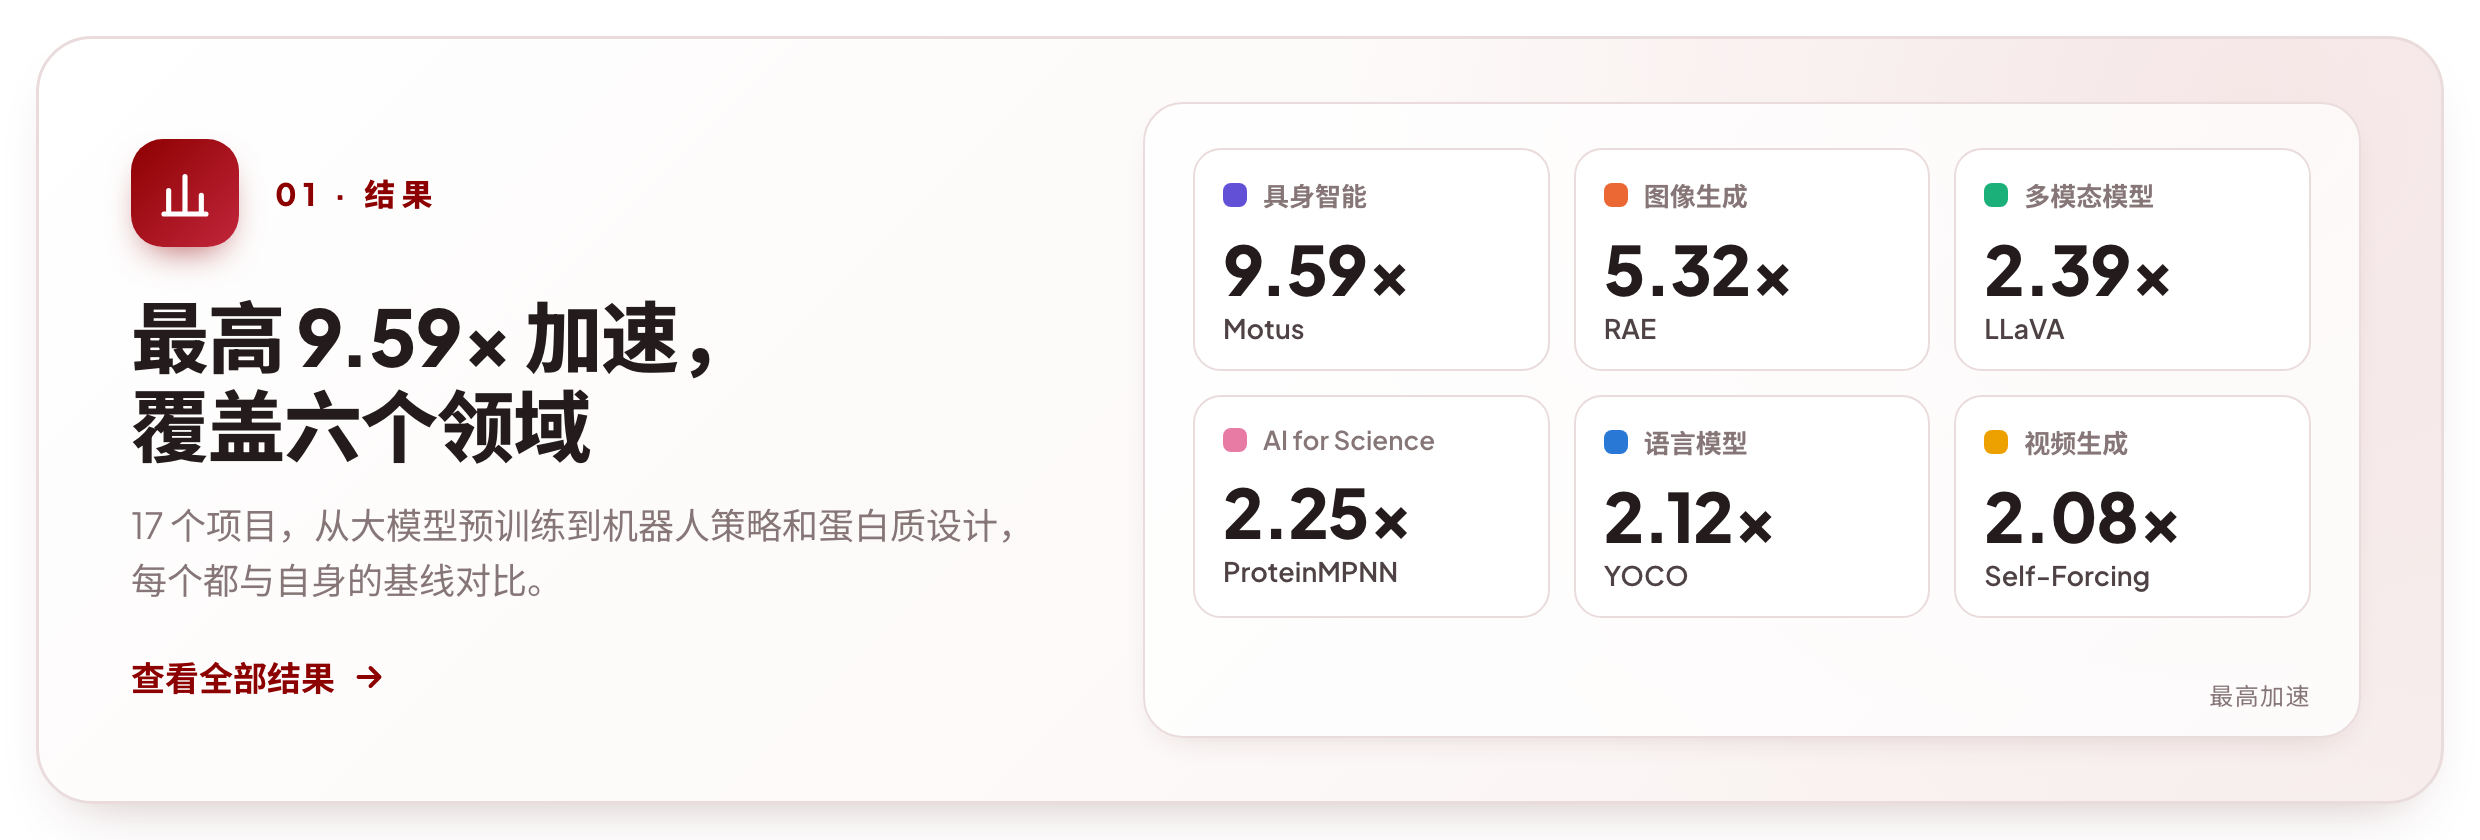
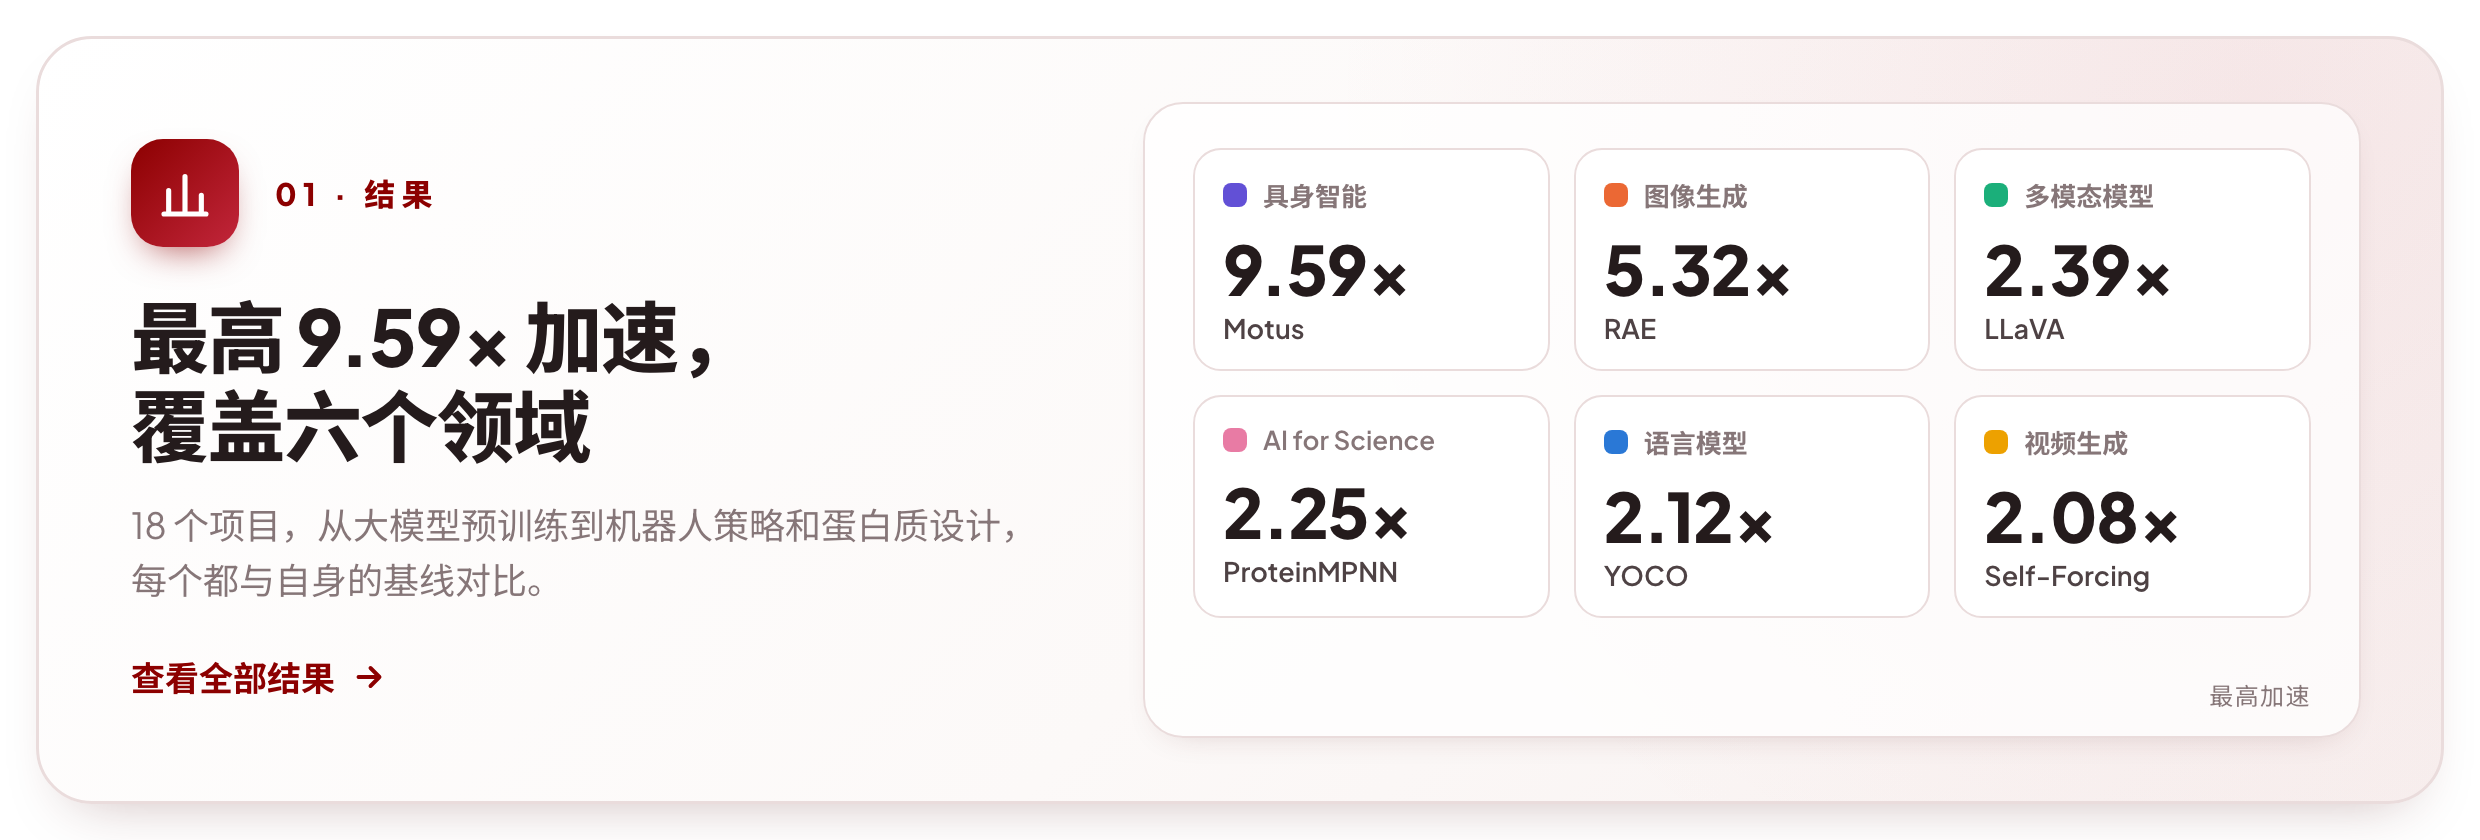
docs: add Faster-Protenix to AI for Science results (#9)
* docs: add Faster-Protenix to AI for Science results

* docs: polish the Protenix case for merge

Set the results card to 18 projects and re-render it, give the manual
review chip its own color instead of the Embodied AI purple, keep hardware
out of the README workload cell, note the comparison tolerance and what
changed in the report, and add COMMUNITY News entries.

---------

Changed region(s): [[0.0621, 0.5881, 0.4036, 0.65]]

diff --git a/docs/figures/make_results_overview.py b/docs/figures/make_results_overview.py
@@ -38,6 +38,7 @@ PROJECTS = [
     ("DMD2", "img", 1.72, "1.72×", False, "stat"),
     ("LLM2Vec", "llm", 1.6009, "1.60×", False, "stat"),
     ("JiT", "img", 1.56, "1.56×", False, "stat"),
+    ("Protenix", "sci", 1.5524, "1.55×", False, "manual"),
     ("FermiNet", "sci", 1.252, "1.25×", False, "bitwise"),
     ("NanoChat", "llm", 1.0744, "1.07×", False, "stat"),
 ]
@@ -69,7 +70,7 @@ TEXT = {
         "title": "Speedup over each project's own baseline",
         "sub": "{n} projects · {d} research domains · higher is faster",
         "cols": ("#", "Project", "Speedup", "Validation"),
-        "valid": {"bitwise": "Bitwise", "stat": "Statistical", "task": "Task metric", "explore": "Exploratory"},
+        "valid": {"bitwise": "Bitwise", "stat": "Statistical", "task": "Task metric", "explore": "Exploratory", "manual": "Manual review"},
         "est": "est.",
         "baseline": "1× baseline",
         "foot": "Hatched: extrapolated estimate · LLM2Vec: SimCSE stage (MNTP 1.29×) · details in docs/results",
@@ -83,7 +84,7 @@ TEXT = {
         "title": "加速比（均相对各项目自身的基线）",
         "sub": "{n} 个项目 · {d} 个研究领域 · 越长越快",
         "cols": ("#", "项目", "加速比", "验证方式"),
-        "valid": {"bitwise": "逐位一致", "stat": "统计等价", "task": "任务指标", "explore": "探索性"},
+        "valid": {"bitwise": "逐位一致", "stat": "统计等价", "task": "任务指标", "explore": "探索性", "manual": "人工复核"},
         "est": "估计",
         "baseline": "1× 基线",
         "foot": "斜纹：外推估计值 · LLM2Vec：SimCSE 阶段（MNTP 为 1.29×） · 详见 docs/results",
@@ -174,7 +175,8 @@ def leaderboard(lang):
     a(f'<line x1="{sx(1):.1f}" y1="{TOP - 6}" x2="{sx(1):.1f}" y2="{bottom}" stroke="{ACCENT}" stroke-width="1" stroke-dasharray="3 3"/>')
     a(f'<text x="{sx(1) + 5:.1f}" y="{TOP - 14}" class="tick" fill="{ACCENT}" style="fill:{ACCENT}">{t["baseline"]}</text>')
     chip_style = {"bitwise": ("#FBEAEA", "#E7C2C2", ACCENT), "stat": ("#F3F0F0", "#E4DCDC", INK2),
-                  "task": ("#EEF4FA", "#D3E2F0", "#2F5F8A"), "explore": ("#FFFFFF", "#D9CFCF", MUTED)}
+                  "task": ("#EEF4FA", "#D3E2F0", "#2F5F8A"), "explore": ("#FFFFFF", "#D9CFCF", MUTED),
+                  "manual": ("#F8F1EA", "#E6D5C3", "#7A5634")}
     for i, (name, d, v, label, est, val) in enumerate(PROJECTS):
         cy = TOP + i * ROW_H + ROW_H / 2
         color = DOMAINS[d][0]

diff --git a/docs/assets/readme/render.py b/docs/assets/readme/render.py
@@ -54,7 +54,7 @@ T = {
                     ("quickstart", "rocket", "Quick start", "light")],
         "cards": [
             ("results", "chart", "01 · RESULTS", "Up to 9.59× faster,<br>across six domains",
-             "17 projects, from LLM pretraining to robot policies and protein design, each measured against its own baseline.",
+             "18 projects, from LLM pretraining to robot policies and protein design, each measured against its own baseline.",
              "See all results"),
             ("prompt", "terminal", "02 · ONE PROMPT", "Paste one prompt,<br>get a verified speedup",
              "Open Codex or Claude Code on a GPU host. The agent finds the code, asks only what is yours to decide, and does the rest.",
@@ -128,7 +128,7 @@ T = {
                     ("quickstart", "rocket", "快速开始", "light")],
         "cards": [
             ("results", "chart", "01 · 结果", "最高 9.59× 加速，<br>覆盖六个领域",
-             "17 个项目，从大模型预训练到机器人策略和蛋白质设计，<br>每个都与自身的基线对比。",
+             "18 个项目，从大模型预训练到机器人策略和蛋白质设计，<br>每个都与自身的基线对比。",
              "查看全部结果"),
             ("prompt", "terminal", "02 · 一段提示词", "粘贴一段话，<br>拿到验证过的加速",
              "在 GPU 主机上打开 Codex 或 Claude Code。agent 自己找到代码，只问需要你决定的事，其余全部自己完成。",

diff --git a/README.md b/README.md
@@ -29,6 +29,7 @@
 
 ## News
 
+- <img src="https://img.shields.io/badge/COMMUNITY-1BAF7A?style=flat-square" alt="COMMUNITY" height="18"> **2026-11-07** · **[Faster-Protenix](https://github.com/micky-li-hd/Faster-Protenix)** by [@micky-li-hd](https://github.com/micky-li-hd): **1.55×** on Protenix 2.0.0 training over a fixed 128-update workload, validated by manual review.
 - <img src="https://img.shields.io/badge/COMMUNITY-1BAF7A?style=flat-square" alt="COMMUNITY" height="18"> **2026-11-06** · **[Faster-FermiNet](https://github.com/sen-ye/faster-ferminet)** by [@sen-ye](https://github.com/sen-ye): **1.25×** on FermiNet all-electron training for Fe, Kr, Cd and Xe.
 - <img src="https://img.shields.io/badge/FEATURE-2A78D6?style=flat-square" alt="FEATURE" height="18"> **2026-11-05** · Lite check: the statistical gate now runs on one seed within 3σ, and the agent's `check` times the candidate once against the frozen baseline, leaving baseline → candidate → baseline timing to the final check. Each check takes less time, so more of a run goes to optimizing ([check modes](docs/judge.md#check-modes)).
 - <img src="https://img.shields.io/badge/COMMUNITY-1BAF7A?style=flat-square" alt="COMMUNITY" height="18"> **2026-11-05** · **[OpenWAM](https://github.com/OpenWAM-Official/OpenWAM)** merged RBA's training speedups upstream ([OpenWAM#58](https://github.com/OpenWAM-Official/OpenWAM/pull/58), by [@GONGSHUKAI](https://github.com/GONGSHUKAI)): **2.54–2.77×** on OpenWAM-α fine-tuning across seven SFT benchmarks.
@@ -48,7 +49,7 @@
 
 ## Highlights
 
-<a href="#results"><img src="docs/assets/readme/card-results-en.png" alt="Up to 9.59× faster across six research domains: 17 projects, each measured against its own baseline." width="100%"></a>
+<a href="#results"><img src="docs/assets/readme/card-results-en.png" alt="Up to 9.59× faster across six research domains: 18 projects, each measured against its own baseline." width="100%"></a>
 
 <a href="#quick-start"><img src="docs/assets/readme/card-prompt-en.png" alt="Paste one prompt into Codex or Claude Code; the agent finds the code, asks only what is yours to decide, and does the rest." width="100%"></a>
 
@@ -58,7 +59,7 @@
 
 ## Results
 
-<a href="https://ai4ai-for-anything.github.io/#research"><img src="docs/figures/results-overview.svg" alt="All 17 projects ranked by speedup over their own baselines, from 9.59× (Motus) to 1.07× (NanoChat), with how each was validated" width="100%"></a>
+<a href="https://ai4ai-for-anything.github.io/#research"><img src="docs/figures/results-overview.svg" alt="All 18 projects ranked by speedup over their own baselines, from 9.59× (Motus) to 1.07× (NanoChat), with how each was validated" width="100%"></a>
 
 <img src="docs/figures/results-time.svg" alt="Baseline vs optimized time for six projects, such as Motus fine-tuning from 7.47 s to 0.78 s per iteration and the RoboTwin benchmark from 73.5 h to 16.8 h" width="100%">
 
@@ -130,11 +131,12 @@ Open a domain for the workloads, or the reports for experiment settings and vali
 </details>
 
 <details>
-<summary><strong>AI for Science</strong> · 2 projects — ProteinMPNN, FermiNet</summary>
+<summary><strong>AI for Science</strong> · 3 projects — ProteinMPNN, Protenix, FermiNet</summary>
 
 | Project | Workload | Speedup |
 |---|---|---:|
 | [Faster-ProteinMPNN](https://github.com/micky-li-hd/Faster-ProteinMPNN) by [@micky-li-hd](https://github.com/micky-li-hd) | ProteinMPNN v_48_020 training · full public dataset | **2.25×** |
+| [Faster-Protenix](https://github.com/micky-li-hd/Faster-Protenix) by [@micky-li-hd](https://github.com/micky-li-hd) | Protenix 2.0.0 training · 128 updates · crop 384 | **1.55×** |
 | [Faster-FermiNet](https://github.com/sen-ye/faster-ferminet) by [@sen-ye](https://github.com/sen-ye) | Fe / Kr / Cd / Xe all-electron training · KFAC, 1024 walkers per GPU | **1.25×** |
 
 [Measurement setup & validation →](docs/results/ai4s.md)
@@ -209,7 +211,7 @@ The quick start does this for you. By hand: read [AGENTS.md](AGENTS.md) and [doc
 
 | Path | Contents |
 |---|---|
-| [`docs/results/`](docs/results) | Results from 17 projects, grouped by domain, with measurement scope and validation records |
+| [`docs/results/`](docs/results) | Results from 18 projects, grouped by domain, with measurement scope and validation records |
 | [`docs/`](docs) | [Methodology](docs/methodology.md), [the judge](docs/judge.md), [goal mode](docs/goal-mode.md), [running a task](docs/run-a-task.md), [lessons from four tasks](docs/lessons.md) |
 | [`goal/`](goal) | Running one Codex or Claude Code `/goal` session on claw-orchestrator: the task scaffold, the sandbox, model access for both engines, run / status / steer / resume scripts and the final check, the watchdog, the brief for the formulating and supervising agent |
 | [`numerics/`](numerics) | The equivalence component every task judge copies and freezes: recording, bitwise and tiered comparison, paired-seed trajectories, the task adapter base class, a self-test |

diff --git a/README.zh-CN.md b/README.zh-CN.md
@@ -29,6 +29,7 @@
 
 ## 动态
 
+- <img src="https://img.shields.io/badge/社区-1BAF7A?style=flat-square" alt="社区" height="18"> **2026-11-07** · **[Faster-Protenix](https://github.com/micky-li-hd/Faster-Protenix)**，来自 [@micky-li-hd](https://github.com/micky-li-hd)：Protenix 2.0.0 训练在固定的 128 次更新上加速 **1.55×**，经人工复核验证。
 - <img src="https://img.shields.io/badge/社区-1BAF7A?style=flat-square" alt="社区" height="18"> **2026-11-06** · **[Faster-FermiNet](https://github.com/sen-ye/faster-ferminet)**，来自 [@sen-ye](https://github.com/sen-ye)：FermiNet 全电子训练（Fe / Kr / Cd / Xe）加速 **1.25×**。
 - <img src="https://img.shields.io/badge/功能-2A78D6?style=flat-square" alt="功能" height="18"> **2026-11-05** · 轻量化 check：统计检查改为单种子 3σ，agent 自己的 `check` 只计时一次候选版本、与固定的基线计时比较，“基线 → 候选版本 → 基线”计时留给最终评测。每次 check 更快，一次运行中更多时间用于优化（[check 模式](docs/judge.md#check-modes)）。
 - <img src="https://img.shields.io/badge/社区-1BAF7A?style=flat-square" alt="社区" height="18"> **2026-11-05** · **[OpenWAM](https://github.com/OpenWAM-Official/OpenWAM)** 已把 RBA 的训练加速合入上游（[OpenWAM#58](https://github.com/OpenWAM-Official/OpenWAM/pull/58)，来自 [@GONGSHUKAI](https://github.com/GONGSHUKAI)）：OpenWAM-α 微调在 7 个 SFT 基准上加速 **2.54–2.77×**。
@@ -48,7 +49,7 @@
 
 ## 亮点
 
-<a href="#已有结果"><img src="docs/assets/readme/card-results-zh.png" alt="最高 9.59× 加速，覆盖六个研究领域：17 个项目，每个都与自身的基线对比。" width="100%"></a>
+<a href="#已有结果"><img src="docs/assets/readme/card-results-zh.png" alt="最高 9.59× 加速，覆盖六个研究领域：18 个项目，每个都与自身的基线对比。" width="100%"></a>
 
 <a href="#快速开始"><img src="docs/assets/readme/card-prompt-zh.png" alt="在 Codex 或 Claude Code 里粘贴一段话；agent 自己找到代码，只问需要你决定的事，其余全部自己完成。" width="100%"></a>
 
@@ -58,7 +59,7 @@
 
 ## 已有结果
 
-<a href="https://ai4ai-for-anything.github.io/#research"><img src="docs/figures/results-overview.zh-CN.svg" alt="17 个项目按相对自身基线的加速比排名，从 9.59×（Motus）到 1.07×（NanoChat），附验证方式" width="100%"></a>
+<a href="https://ai4ai-for-anything.github.io/#research"><img src="docs/figures/results-overview.zh-CN.svg" alt="18 个项目按相对自身基线的加速比排名，从 9.59×（Motus）到 1.07×（NanoChat），附验证方式" width="100%"></a>
 
 <img src="docs/figures/results-time.zh-CN.svg" alt="6 个项目的基线与优化后耗时对比，例如 Motus 微调每次迭代从 7.47 s 降到 0.78 s，RoboTwin 完整评测从 73.5 h 降到 16.8 h" width="100%">
 
@@ -130,11 +131,12 @@
 </details>
 
 <details>
-<summary><strong>AI for Science</strong> · 2 个项目 — ProteinMPNN, FermiNet</summary>
+<summary><strong>AI for Science</strong> · 3 个项目 — ProteinMPNN, Protenix, FermiNet</summary>
 
 | 项目 | 工作负载 | 加速比 |
 |---|---|---:|
 | [Faster-ProteinMPNN](https://github.com/micky-li-hd/Faster-ProteinMPNN)（[@micky-li-hd](https://github.com/micky-li-hd) 贡献） | ProteinMPNN v_48_020 训练（完整公开数据集） | **2.25×** |
+| [Faster-Protenix](https://github.com/micky-li-hd/Faster-Protenix)（[@micky-li-hd](https://github.com/micky-li-hd) 贡献） | Protenix 2.0.0 训练 · 128 次更新 · crop 384 | **1.55×** |
 | [Faster-FermiNet](https://github.com/sen-ye/faster-ferminet)（[@sen-ye](https://github.com/sen-ye) 贡献） | Fe / Kr / Cd / Xe 全电子训练 · KFAC，每卡 1024 walkers | **1.25×** |
 
 [实验设置与验证记录（英文） →](docs/results/ai4s.md)
@@ -209,7 +211,7 @@ Codex 用 `codex --enable default_mode_request_user_input` 启动时会弹出提
 
 | 路径 | 内容 |
 |---|---|
-| [`docs/results/`](docs/results) | 17 个项目的分类报告、测量范围与验证记录（英文） |
+| [`docs/results/`](docs/results) | 18 个项目的分类报告、测量范围与验证记录（英文） |
 | [`docs/`](docs) | 英文文档：[方法](docs/methodology.md)、[评测](docs/judge.md)、[goal 模式](docs/goal-mode.md)、[任务运行指南](docs/run-a-task.md)、[四个任务的经验](docs/lessons.md) |
 | [`goal/`](goal) | 在 claw-orchestrator 上运行 Codex 或 Claude Code `/goal` 会话的工具：建任务目录的脚本、沙箱、两种引擎的模型访问配置、启动 / 查看状态 / 发送提醒 / 恢复运行的脚本和最终评测、监控脚本，以及任务准备和监督 agent 的说明 |
 | [`numerics/`](numerics) | 各任务评测复制并固定版本的数值等价性检查组件：数据记录、逐位和分级比对、配对随机种子的训练轨迹比对、任务适配器基类及自测 |

diff --git a/docs/results/ai4s.md b/docs/results/ai4s.md
@@ -2,7 +2,7 @@
 
 [← All results](README.md) · [ResearchBoost-Agent](../../README.md#results)
 
-2 projects · [ProteinMPNN](#faster-proteinmpnn) · [FermiNet](#faster-ferminet)
+3 projects · [ProteinMPNN](#faster-proteinmpnn) · [Protenix](#faster-protenix) · [FermiNet](#faster-ferminet)
 
 ## Faster-ProteinMPNN
 
@@ -22,6 +22,29 @@ Six of the recipe's 150 epochs (8,970 updates) per arm, run reference → candid
 This is a bounded exploratory comparison, not a frozen-judge four-gate PASS or a full-training convergence claim. The source tree contains the pinned upstream implementation with the training optimization applied in place, an unchanged reference arm, and reproduction scripts.
 
 [Code & project README ↗](https://github.com/micky-li-hd/Faster-ProteinMPNN) · [Detailed evidence ↗](https://github.com/micky-li-hd/Faster-ProteinMPNN/blob/main/six_epoch_evidence.json)
+
+## Faster-Protenix
+
+Contributed by [@micky-li-hd](https://github.com/micky-li-hd).
+
+**Protenix 2.0.0 training · 128 optimizer updates · crop 384 · diffusion batch 48**
+
+| Item | Result |
+|---|---|
+| Speedup | **1.55×** |
+| Hardware | 8 × NVIDIA H20 96 GB, single host |
+| Measurement scope | 1,503.99 → 968.83 s whole process; mean of two references vs candidate |
+| Validation | Manual review PASS: 216/216 training comparisons and 135/138 normal/EMA evaluation comparisons passed; the three accepted EMA deviations were smaller than the reference-repeat deviation |
+
+The fixed workload ran reference → candidate → reference with the same inputs, random-state fingerprints, precision, Adam configuration, effective batch, learning-rate schedule, checkpointing and evaluation. Whole-process timing includes startup, cold native compilation, 128 updates, checkpoint writing and evaluation. Mean max-rank step time over updates 16–127 improved from 10.24 to 6.07 s (**1.69×**).
+
+The candidate keeps selected Pairformer, MSA and diffusion activations instead of recomputing them, caches repeated conditioning and sampling projections, fuses attention softmax and the head-gate backward, uses native CUDA kernels for selected layer-norm and affine work, and parallelizes cold builds and model initialization. Keeping activations costs memory: the candidate peaked at 81.9 GiB allocated and 93.4 GiB reserved per rank.
+
+Comparisons used the frozen tolerance max(1e-4, 5% of the reference value). Manual review accepted the three deviations in `ema0.999_lddt/complex/plddt.rank1.avg` as run-to-run variance: the reference-repeat delta was 0.003168, larger than the 0.001859 and 0.001309 candidate deltas. All six final normal/EMA checkpoints were finite. The public repository includes the implementation snapshot, source and publication manifests, reviewed findings, fixed-scope record and clean-run closure record.
+
+The validation covers this fixed 128-update engineering workload; full-corpus convergence is outside its scope. The exact training fixture and generated checkpoints are not redistributed, and the source snapshot is hash-manifested because the upstream Git commit was not recorded.
+
+[Code & project README ↗](https://github.com/micky-li-hd/Faster-Protenix) · [Summary ↗](https://github.com/micky-li-hd/Faster-Protenix/blob/main/results/summary.json) · [Detailed evidence ↗](https://github.com/micky-li-hd/Faster-Protenix/blob/main/results/FINDINGS.json)
 
 ## Faster-FermiNet
 

diff --git a/docs/results/README.md b/docs/results/README.md
@@ -2,7 +2,7 @@
 
 [← ResearchBoost-Agent](../../README.md#results)
 
-**17 projects · 6 research domains**
+**18 projects · 6 research domains**
 
 Each report includes the workload, hardware, timing and validation results, with links to the project’s code and experiments.
 
@@ -13,8 +13,8 @@ Each report includes the workload, hardware, timing and validation results, with
 | Image Generation | RAE, DMD2, JiT | [Open report](image-generation.md) |
 | Video Generation | Self-Forcing, [MiniMax-H3](https://github.com/2018cx/Faster-MiniMax-H3) by [@2018cx](https://github.com/2018cx) | [Open report](video-generation.md) |
 | Embodied AI | RoboTwin, Motus, FastWAM, [OpenWAM](https://github.com/OpenWAM-Official/OpenWAM) by [@GONGSHUKAI](https://github.com/GONGSHUKAI) | [Open report](embodied-ai.md) |
-| AI for Science | [ProteinMPNN](https://github.com/micky-li-hd/Faster-ProteinMPNN) by [@micky-li-hd](https://github.com/micky-li-hd), [FermiNet](https://github.com/sen-ye/faster-ferminet) by [@sen-ye](https://github.com/sen-ye) | [Open report](ai4s.md) |
+| AI for Science | [ProteinMPNN](https://github.com/micky-li-hd/Faster-ProteinMPNN) by [@micky-li-hd](https://github.com/micky-li-hd), [Protenix](https://github.com/micky-li-hd/Faster-Protenix) by [@micky-li-hd](https://github.com/micky-li-hd), [FermiNet](https://github.com/sen-ye/faster-ferminet) by [@sen-ye](https://github.com/sen-ye) | [Open report](ai4s.md) |
 
 Speedups compare each workload with its own baseline. **est.** marks an extrapolated result.
 
-Updated **2026-11-06** from the linked project reports and [website results](https://ai4ai-for-anything.github.io/#research), including R3’s **2.08× on 8 × H100**, MiniMax-H3’s repaired **1.8570× on 8 × H20**, OpenWAM’s **2.54–2.77× on 4 × H200** (merged upstream), and FermiNet’s **1.25× on H20**. LLM2Vec reports independent MNTP and SimCSE stage measurements; its validation limitations are documented in the [LLM report](llm.md#faster-llm2vec).
+Updated **2026-11-07** from the linked project reports and [website results](https://ai4ai-for-anything.github.io/#research), including R3’s **2.08× on 8 × H100**, MiniMax-H3’s repaired **1.8570× on 8 × H20**, OpenWAM’s **2.54–2.77× on 4 × H200** (merged upstream), Protenix’s manually validated **1.55× on 8 × H20**, and FermiNet’s **1.25× on H20**. LLM2Vec reports independent MNTP and SimCSE stage measurements; its validation limitations are documented in the [LLM report](llm.md#faster-llm2vec).
